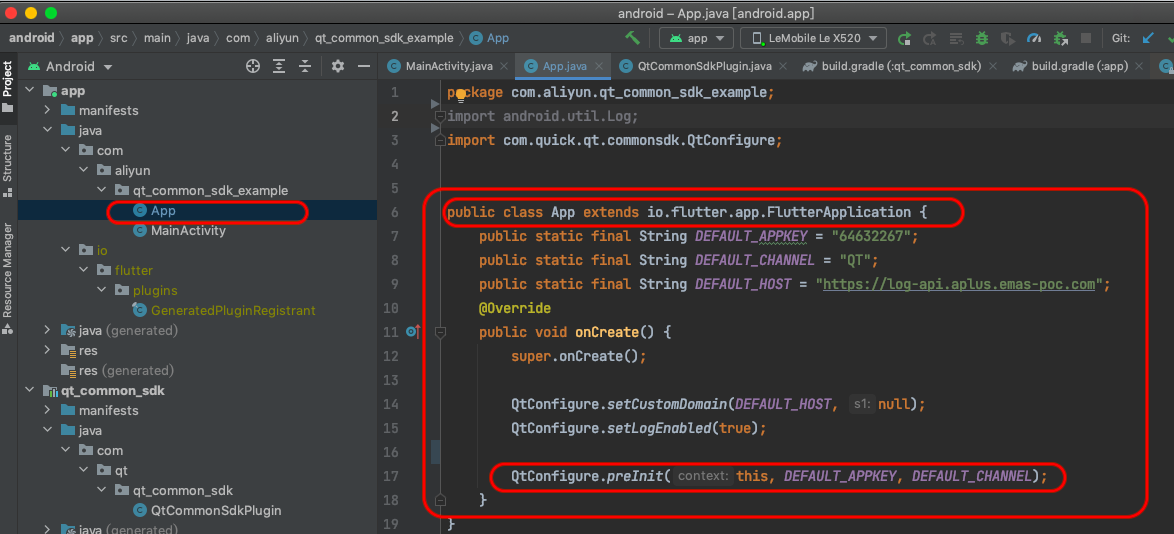
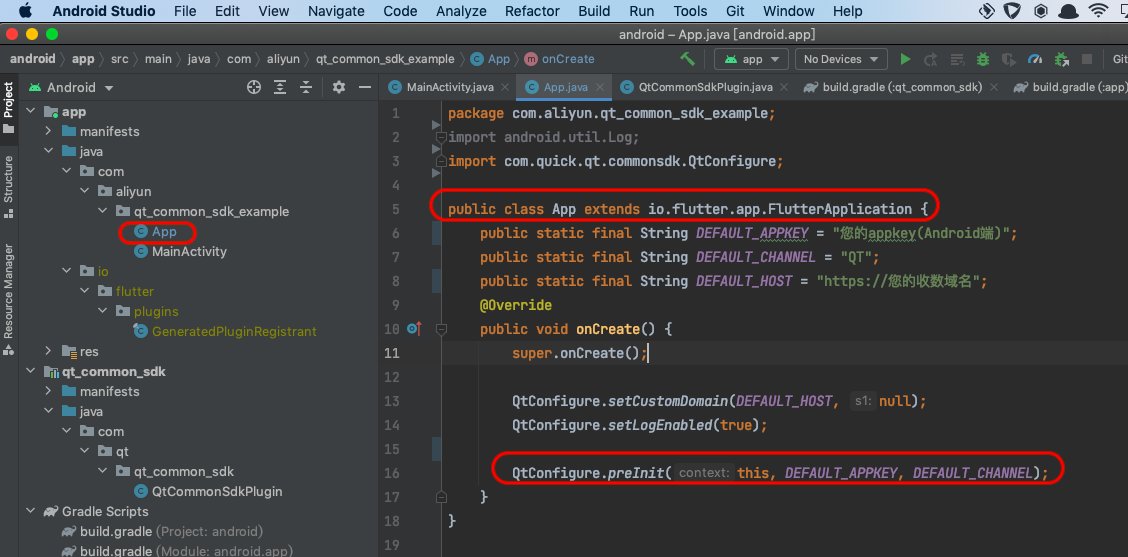
1.更新

Changed region(s): [[0.0, 0.0, 1.0, 1.0], [0.7757, 0.6891, 0.8067, 0.7491]]

diff --git a/example/android/app/src/main/java/com/aliyun/qt_common_sdk_example/App.java b/example/android/app/src/main/java/com/aliyun/qt_common_sdk_example/App.java
@@ -1,10 +1,6 @@
 package com.aliyun.qt_common_sdk_example;
 
-
-import android.util.Log;
-
 import com.quick.qt.commonsdk.QtConfigure;
-
 
 public class App extends io.flutter.app.FlutterApplication {
     public static final String DEFAULT_APPKEY = "您的appkey(Android端)";
@@ -16,7 +12,6 @@ public class App extends io.flutter.app.FlutterApplication {
 
         QtConfigure.setCustomDomain(DEFAULT_HOST, null);
         QtConfigure.setLogEnabled(true);
-        Log.i("UMLog", "call UMConfigure.preInit();");
         QtConfigure.preInit(this, DEFAULT_APPKEY, DEFAULT_CHANNEL);
     }
 }

diff --git a/README.md b/README.md
@@ -53,13 +53,21 @@ import 'package:qt_common_sdk/qt_common_sdk.dart';
 
 ### Android端
 
-请参考本工程中示例Android 宿主工程中App.java文件(example/android/app/src/main/java/com/aliyun/qt_common_sdk_example/App.java)，给您的flutter工程Android宿主工程增加App类，注意此类必须是 io.flutter.app.FlutterApplication 类的子类。在App类的onCreate生命周期函数内，调用原生统计SDK的预初始化方法QtConfigure.preInit，并传入appkey和渠道参数。注意，预初始化传入的appkey和渠道参数必须和后续在flutter工程的dart代码中调用的SDK正式初始化函数QTCommonSdk.initCommon 传入的第一个参数(Android appkey)和第三个参数(Android 渠道)必须严格一致。
+请参考本工程中示例Android 宿主工程中App.java文件(example/android/app/src/main/java/com/aliyun/qt_common_sdk_example/App.java)，给您的flutter工程Android宿主工程增加App类，注意此类必须是 io.flutter.app.FlutterApplication 类的子类。在App类的onCreate生命周期函数内，调用原生统计SDK的预初始化方法QtConfigure.preInit，并传入appkey和渠道参数。
+
+![](png/android_p1.png)
+
+另外，您还需要在Android宿主工程AndroidManifest.xml清单文件中 application 配置中添加 “android:name”属性，其值为新增的 App 类。如下图：
+
+![](png/android_p2.png)
+
+注意，预初始化传入的appkey和渠道参数必须和后续在flutter工程的dart代码中调用的SDK正式初始化函数QTCommonSdk.initCommon 传入的第一个参数(Android appkey)和第三个参数(Android 渠道)必须严格一致。
 
 为了满足《隐私政策》要求，开发者必须保证在应用安装后，首次冷启动场景，只能在App用户同意隐私授权之后，才能调用flutter插件的QTCommonSdk.initCommon接口真正出初始化SDK。
 
 用户已经同意隐私授权之后的后续应用冷启动，可以在flutter首个页面初始化时直接调用QTCommonSdk.initCommon接口初始化SDK。
 
-![](png/android_p1.png)
+
 
 ---
 
